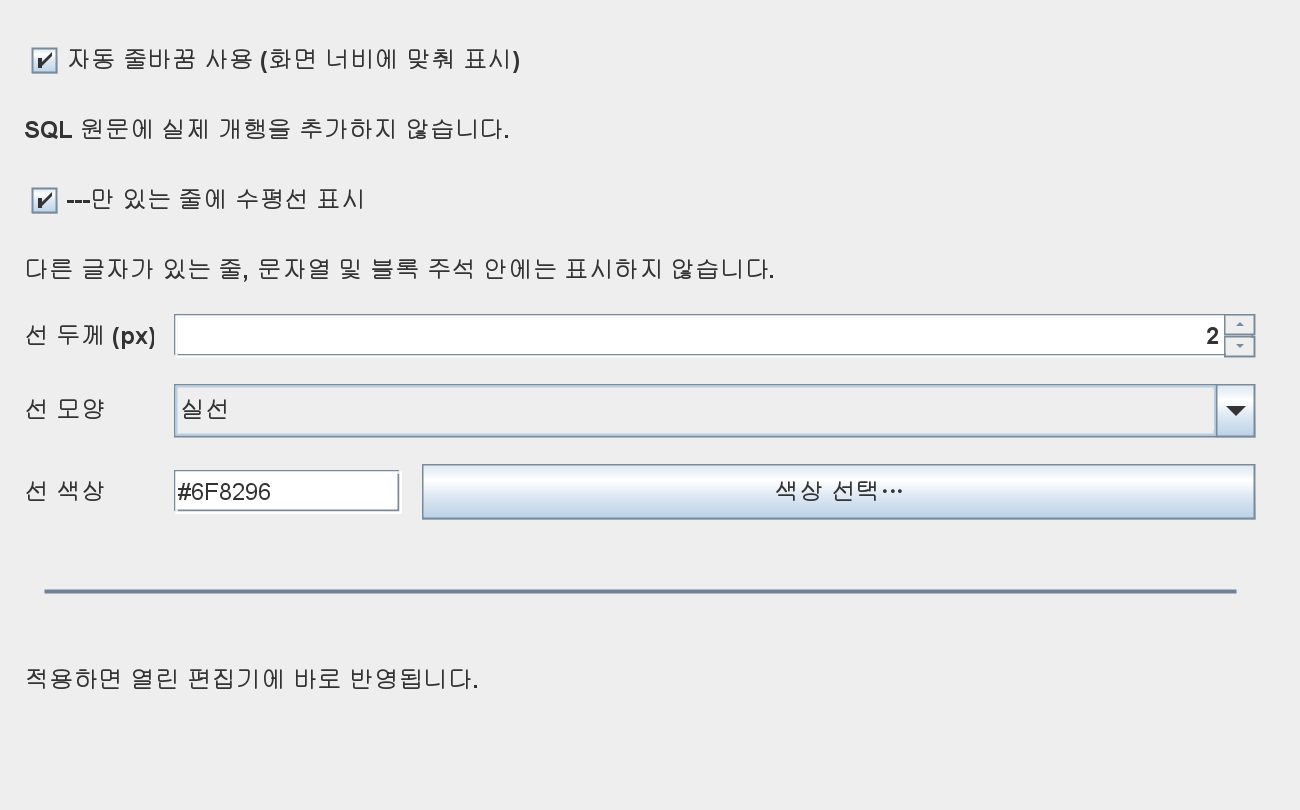
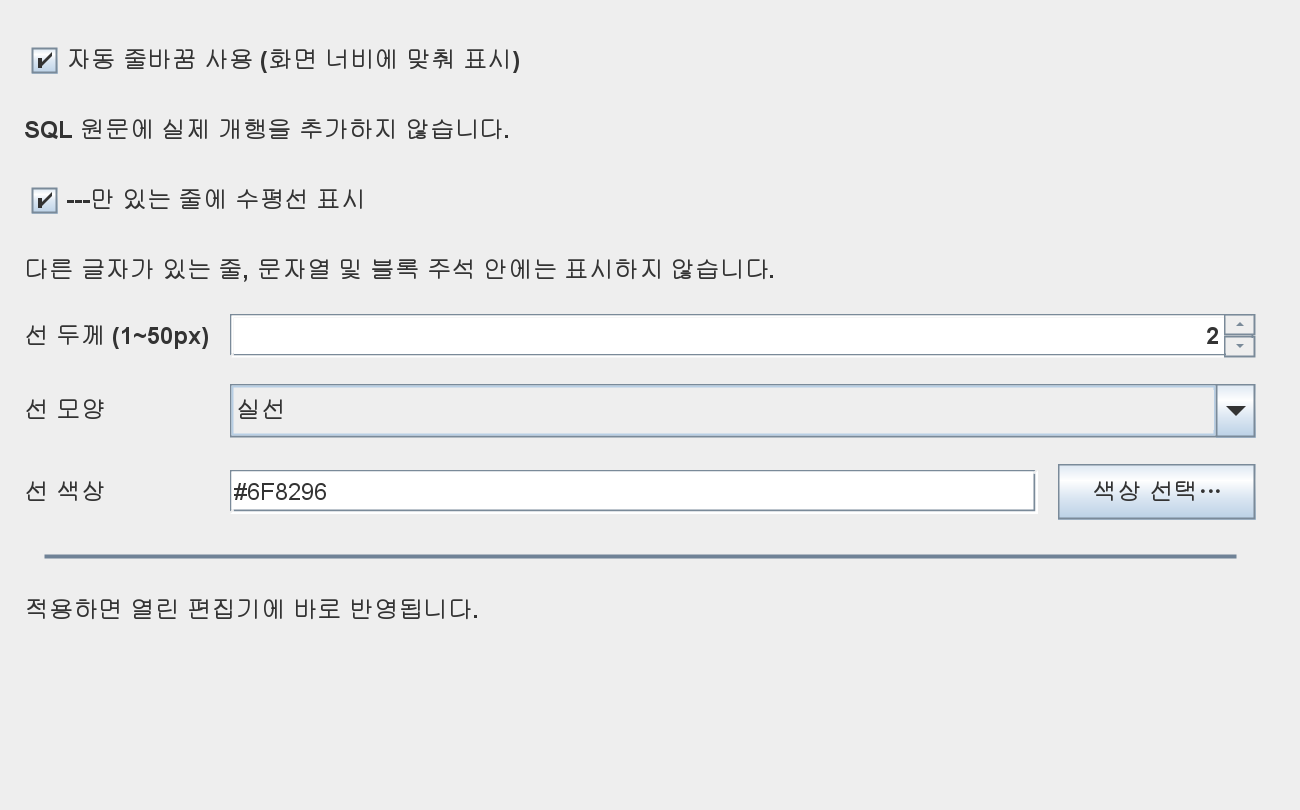
Expand horizontal rule thickness to 50px and add styles

diff --git a/src/java/agent/io/github/sqldevgrid/EditorPreferencesPanel.java b/src/java/agent/io/github/sqldevgrid/EditorPreferencesPanel.java
@@ -10,12 +10,12 @@ import oracle.ide.panels.*;
 /** SQL Developer's native Preferences page; changes commit on OK/Apply, never on navigation. */
 public final class EditorPreferencesPanel extends DefaultTraversablePanel implements ApplyListener {
     private static final String KEY = "io.github.sqldevgrid.editorOptions";
-    private static final String[] STYLES = {"solid", "dashed", "dotted", "dashdot"};
+    private static final String[] STYLES = {"solid", "dashed", "dotted", "dashdot", "longdash", "shortdash", "dashdotdot", "longdashdot", "double"};
     private String pending;
     private final JCheckBox wrap = new JCheckBox("자동 줄바꿈 사용 (화면 너비에 맞춰 표시)");
     private final JCheckBox rules = new JCheckBox("---만 있는 줄에 수평선 표시");
-    private final JSpinner thickness = new JSpinner(new SpinnerNumberModel(1.0, .5, 8.0, .5));
-    private final JComboBox<String> style = new JComboBox<>(new String[] {"실선", "파선", "점선", "일점쇄선"});
+    private final JSpinner thickness = new JSpinner(new SpinnerNumberModel(1.0, 1.0, 50.0, 1.0));
+    private final JComboBox<String> style = new JComboBox<>(new String[] {"실선", "파선", "점선", "일점쇄선", "긴 파선", "짧은 파선", "이점쇄선", "긴 일점쇄선", "이중선"});
     private final JTextField color = new JTextField("#6F8296", 10);
     private final JPanel preview = new JPanel() {
         protected void paintComponent(Graphics graphics) {
@@ -26,11 +26,21 @@ public final class EditorPreferencesPanel extends DefaultTraversablePanel implem
                 float width = ((Number)thickness.getValue()).floatValue(), scale = Math.max(1,width);
                 float[] dash = switch(style.getSelectedIndex()) {
                     case 1 -> new float[] {8*scale,5*scale}; case 2 -> new float[] {scale,4*scale};
-                    case 3 -> new float[] {8*scale,4*scale,scale,4*scale}; default -> null;
+                    case 3 -> new float[] {8*scale,4*scale,scale,4*scale};
+                    case 4 -> new float[] {14*scale,5*scale};
+                    case 5 -> new float[] {3*scale,3*scale};
+                    case 6 -> new float[] {8*scale,4*scale,scale,4*scale,scale,4*scale};
+                    case 7 -> new float[] {14*scale,4*scale,scale,4*scale};
+                    default -> null;
                 };
                 try { copy.setColor(Color.decode(color.getText().trim())); } catch(NumberFormatException ignored) { copy.setColor(new Color(0x6F8296)); }
-                copy.setStroke(new BasicStroke(width, style.getSelectedIndex()==2 ? BasicStroke.CAP_ROUND : BasicStroke.CAP_BUTT, BasicStroke.JOIN_ROUND,10,dash,0));
-                copy.draw(new Line2D.Float(10,getHeight()/2f,getWidth()-10,getHeight()/2f));
+                boolean doubled = style.getSelectedIndex()==8;
+                copy.setStroke(new BasicStroke(doubled ? width/3 : width, style.getSelectedIndex()==2 ? BasicStroke.CAP_ROUND : BasicStroke.CAP_BUTT, BasicStroke.JOIN_ROUND,10,dash,0));
+                float y=getHeight()/2f;
+                if(doubled) {
+                    copy.draw(new Line2D.Float(10,y-width/3,getWidth()-10,y-width/3));
+                    copy.draw(new Line2D.Float(10,y+width/3,getWidth()-10,y+width/3));
+                } else copy.draw(new Line2D.Float(10,y,getWidth()-10,y));
             } finally {copy.dispose();}
         }
     };
@@ -44,11 +54,11 @@ public final class EditorPreferencesPanel extends DefaultTraversablePanel implem
         c.gridy++; form.add(new JLabel("SQL 원문에 실제 개행을 추가하지 않습니다."),c);
         c.gridy++; form.add(rules,c);
         c.gridy++; form.add(new JLabel("다른 글자가 있는 줄, 문자열 및 블록 주석 안에는 표시하지 않습니다."),c);
-        c.gridy++; c.gridwidth=1; c.weightx=0; form.add(new JLabel("선 두께 (px)"),c); c.gridx=1; c.gridwidth=2; form.add(thickness,c);
+        c.gridy++; c.gridwidth=1; c.weightx=0; form.add(new JLabel("선 두께 (1~50px)"),c); c.gridx=1; c.gridwidth=2; form.add(thickness,c);
         c.gridy++; c.gridx=0; c.gridwidth=1; form.add(new JLabel("선 모양"),c); c.gridx=1; c.gridwidth=2; form.add(style,c);
-        c.gridy++; c.gridx=0; c.gridwidth=1; form.add(new JLabel("선 색상"),c); c.gridx=1; form.add(color,c);
-        JButton choose = new JButton("색상 선택…"); c.gridx=2; form.add(choose,c);
-        c.gridy++; c.gridx=0; c.gridwidth=3; preview.setPreferredSize(new Dimension(360,45)); form.add(preview,c);
+        c.gridy++; c.gridx=0; c.gridwidth=1; form.add(new JLabel("선 색상"),c); c.gridx=1; c.weightx=1; form.add(color,c);
+        JButton choose = new JButton("색상 선택…"); c.gridx=2; c.weightx=0; form.add(choose,c);
+        c.gridy++; c.gridx=0; c.gridwidth=3; c.weightx=1; preview.setName("RulePreview"); preview.setPreferredSize(new Dimension(360,80)); form.add(preview,c);
         c.gridy++; form.add(new JLabel("적용하면 열린 편집기에 바로 반영됩니다."),c);
         c.gridy++; c.weighty=1; c.fill=GridBagConstraints.BOTH; form.add(new JPanel(),c);
         add(form,BorderLayout.CENTER);
@@ -70,17 +80,17 @@ public final class EditorPreferencesPanel extends DefaultTraversablePanel implem
         wrap.setSelected(Boolean.parseBoolean(GridSettings.value(json,"softWrap","false")));
         rules.setSelected(Boolean.parseBoolean(GridSettings.value(json,"horizontalRules","false")));
         double value;try{value=Double.parseDouble(GridSettings.value(json,"ruleThickness","1"));}catch(NumberFormatException error){value=1;}
-        thickness.setValue(Math.max(.5,Math.min(8,value)));
+        thickness.setValue(Double.isFinite(value) ? Math.max(1,Math.min(50,value)) : 1.0);
         color.setText(GridSettings.value(json,"ruleColor","\"#6F8296\"").replace("\"",""));
         String chosen=GridSettings.value(json,"ruleStyle","\"solid\"").replace("\"","");
         int index=java.util.Arrays.asList(STYLES).indexOf(chosen); style.setSelectedIndex(Math.max(0,index));
     }
     private String collect() throws TraversalException {
-        try{thickness.commitEdit();}catch(java.text.ParseException error){throw new TraversalException("선 두께는 0.5~8px로 입력하세요.");}
+        try{thickness.commitEdit();}catch(java.text.ParseException error){throw new TraversalException("선 두께는 1~50px로 입력하세요.");}
         String hex=color.getText().trim().toUpperCase(java.util.Locale.ROOT);
         if(!hex.matches("#[0-9A-F]{6}")) throw new TraversalException("선 색상은 #RRGGBB로 입력하세요.");
         double value=((Number)thickness.getValue()).doubleValue();
-        if(!Double.isFinite(value)||value<.5||value>8) throw new TraversalException("선 두께는 0.5~8px로 입력하세요.");
+        if(!Double.isFinite(value)||value<1||value>50) throw new TraversalException("선 두께는 1~50px로 입력하세요.");
         return "{\"softWrap\":"+wrap.isSelected()+",\"horizontalRules\":"+rules.isSelected()+",\"ruleThickness\":"+value
             +",\"ruleColor\":\""+hex+"\",\"ruleStyle\":\""+STYLES[Math.max(0,style.getSelectedIndex())]+"\"}";
     }

diff --git a/src/wpf/Engine.cs b/src/wpf/Engine.cs
@@ -31,7 +31,7 @@ namespace SqlDeveloperFont50 {
         public const string SupportedVersion = "26.2.0.186.2220";
[1 lines of base64/hex data omitted]
         public const string BundleId = "io.github.sqldevgrid.result-grid-font";
-        public const string BundleLine = "io.github.sqldevgrid.result-grid-font,0.11.0,../sqldeveloper/extensions/result-grid-font-extension.jar,4,false";
+        public const string BundleLine = "io.github.sqldevgrid.result-grid-font,0.12.0,../sqldeveloper/extensions/result-grid-font-extension.jar,4,false";
         public readonly string AppData;
         public readonly string ToolFolder;
         public Action<string> Log = delegate { };
@@ -181,7 +181,7 @@ namespace SqlDeveloperFont50 {
                 options.SoftWrap = Text(display, "softWrap", "false").Equals("true", StringComparison.OrdinalIgnoreCase);
                 options.HorizontalRules = Text(display, "horizontalRules", "false").Equals("true", StringComparison.OrdinalIgnoreCase);
                 double thickness;
-                if (double.TryParse(display.ContainsKey("ruleThickness") ? Convert.ToString(display["ruleThickness"], CultureInfo.InvariantCulture) : "1", NumberStyles.Float, CultureInfo.InvariantCulture, out thickness)) options.RuleThickness = Math.Max(.5, Math.Min(8, thickness));
+                if (double.TryParse(display.ContainsKey("ruleThickness") ? Convert.ToString(display["ruleThickness"], CultureInfo.InvariantCulture) : "1", NumberStyles.Float, CultureInfo.InvariantCulture, out thickness)) options.RuleThickness = double.IsNaN(thickness) || double.IsInfinity(thickness) ? 1 : Math.Max(1, Math.Min(50, thickness));
                 options.RuleColor = Text(display, "ruleColor", "#6F8296"); options.RuleStyle = Text(display, "ruleStyle", "solid");
             } catch { }
             return options;
@@ -277,9 +277,9 @@ namespace SqlDeveloperFont50 {
         void SaveOptions(Installation install, FontOptions options) {
             if (options.EditorSize < 7 || options.EditorSize > 50 || options.GridSize < 6 || options.GridSize > 50 || options.Padding < -20 || options.Padding > 30)
                 throw new InvalidOperationException("글꼴 크기와 여백 범위를 확인하세요.");
-            if (!Regex.IsMatch(options.RuleColor ?? "", "^#[0-9a-fA-F]{6}$") || options.RuleThickness < .5 || options.RuleThickness > 8 ||
-                !new[] {"solid", "dashed", "dotted", "dashdot"}.Contains(options.RuleStyle))
-                throw new InvalidOperationException("수평선 색상(#RRGGBB), 두께(0.5~8px), 모양을 확인하세요.");
+            if (!Regex.IsMatch(options.RuleColor ?? "", "^#[0-9a-fA-F]{6}$") || double.IsNaN(options.RuleThickness) || double.IsInfinity(options.RuleThickness) || options.RuleThickness < 1 || options.RuleThickness > 50 ||
+                !new[] {"solid", "dashed", "dotted", "dashdot", "longdash", "shortdash", "dashdotdot", "longdashdot", "double"}.Contains(options.RuleStyle))
+                throw new InvalidOperationException("수평선 색상(#RRGGBB), 두께(1~50px), 모양을 확인하세요.");
             string preferences = PreferencesPath(install);
             if (File.Exists(preferences)) {
                 string text = File.ReadAllText(preferences, Utf8);
@@ -322,7 +322,7 @@ namespace SqlDeveloperFont50 {
             } else if (Hash(editor) != OriginalHash) throw new InvalidOperationException("검증한 원본과 다른 편집기 JAR입니다. 이 버전에는 적용할 수 없습니다.");
             string text = File.ReadAllText(bundles, Utf8);
             var registrations = text.Split(new[] { "\r\n", "\n" }, StringSplitOptions.None).Where(s => s.StartsWith(BundleId + ",", StringComparison.Ordinal)).ToList();
-            if (registrations.Count > 1 || registrations.Any(s => !Regex.IsMatch(s, "^" + Regex.Escape(BundleId) + @",0\.(?:[1-9]|10|11)\.0,\.\./sqldeveloper/extensions/result-grid-font-extension\.jar,4,false$")))
+            if (registrations.Count > 1 || registrations.Any(s => !Regex.IsMatch(s, "^" + Regex.Escape(BundleId) + @",0\.(?:[1-9]|10|11|12)\.0,\.\./sqldeveloper/extensions/result-grid-font-extension\.jar,4,false$")))
                 throw new InvalidOperationException("기존 결과셋 확장 등록이 예상과 다릅니다.");
             string lineEnding = text.Contains("\r\n") ? "\r\n" : "\n";
             string changed = registrations.Count == 1 ? text.Replace(registrations[0], BundleLine) : text.TrimEnd('\r', '\n') + lineEnding + BundleLine + lineEnding;
@@ -366,7 +366,7 @@ namespace SqlDeveloperFont50 {
                     string agentPath = agent.Replace('\\', '/');
                     AtomicText(configPath, config.TrimEnd('\r', '\n') + "\r\n\r\n# FONT50 AGENT BEGIN\r\nAddVMOption -javaagent:" + agentPath + "\r\n# FONT50 AGENT END\r\n");
                     SaveOptions(install, options);
-                    state["packageVersion"] = "3.4.1"; state["root"] = install.Root; state["installedAt"] = DateTime.Now.ToString("o");
+                    state["packageVersion"] = "3.4.2"; state["root"] = install.Root; state["installedAt"] = DateTime.Now.ToString("o");
                     state["editorPatchedHash"] = Hash(editor); state["extensionPatchedHash"] = Hash(extension); state["bundlePatchedLine"] = BundleLine;
                     state["agentPatchedHash"] = Hash(agent);
                     WriteJson(statePath, state);

diff --git a/tests/java/NativePreferencesTest.java b/tests/java/NativePreferencesTest.java
@@ -41,7 +41,7 @@ public final class NativePreferencesTest {
                 try{reopened.onExit(new TraversableContext(new Namespace(),0));}catch(TraversalException error){rejected=true;}
                 check(rejected&&Files.readString(path).equals(saved),"Invalid color changed saved settings");
                 panel.setSize(650,470);layout(panel);
-                check(find(panel,"SoftWrap").getWidth()>200 && find(panel,"RuleColor").getHeight()>10,"Native preference controls were not laid out");
+                check(find(panel,"SoftWrap").getWidth()>200 && find(panel,"RuleColor").getWidth()>100 && find(panel,"RuleColor").getHeight()>10,"Native preference controls were not laid out");
                 java.awt.image.BufferedImage image=new java.awt.image.BufferedImage(650,470,java.awt.image.BufferedImage.TYPE_INT_RGB);
                 Graphics2D g=image.createGraphics();panel.printAll(g);g.dispose();javax.imageio.ImageIO.write(image,"png",Path.of(args[0],"native-preferences.png").toFile());
                 // Oracle loads a native page in its bundle loader while the startup agent owns the shared settings class.
@@ -58,6 +58,35 @@ public final class NativePreferencesTest {
                     isolated.onEntry(new TraversableContext(new Namespace(),0));
                     check(((Number)((JSpinner)find(isolated,"RuleThickness")).getValue()).doubleValue()==2.5,"Separate bundle could not access shared settings");
                 }
+                String[] styles={"solid","dashed","dotted","dashdot","longdash","shortdash","dashdotdot","longdashdot","double"};
+                JSpinner width=(JSpinner)find(panel,"RuleThickness");
+                JComboBox<?> choices=(JComboBox<?>)find(panel,"RuleStyle");
+                check(choices.getItemCount()==styles.length,"Missing rule styles");
+                SpinnerNumberModel model=(SpinnerNumberModel)width.getModel();
+                check(model.getMinimum().equals(1.0)&&model.getMaximum().equals(50.0),"Thickness range is not 1~50");
+                for(int i=0;i<styles.length;i++) for(double value:new double[]{1,25,50}) {
+                    TraversableContext options=new TraversableContext(new Namespace(),0);
+                    width.setValue(value);choices.setSelectedIndex(i);
+                    panel.onExit(options);panel.apply(new ApplyEvent(options));
+                    String json=Files.readString(path);
+                    check(json.contains("\"ruleThickness\":"+value)&&json.contains("\"ruleStyle\":\""+styles[i]+"\""),"Rule option not saved: "+styles[i]+" / "+value);
+                    EditorPreferencesPanel loaded=new EditorPreferencesPanel();loaded.onEntry(new TraversableContext(new Namespace(),0));
+                    check(((Number)((JSpinner)find(loaded,"RuleThickness")).getValue()).doubleValue()==value&&((JComboBox<?>)find(loaded,"RuleStyle")).getSelectedIndex()==i,"Rule option lost on reopen");
+                }
+                String valid=Files.readString(path);
+                for(String invalid:new String[]{"0","0.5","51","NaN","Infinity"}) {
+                    ((JSpinner.DefaultEditor)width.getEditor()).getTextField().setText(invalid);
+                    boolean invalidWidth=false;
+                    try{panel.onExit(new TraversableContext(new Namespace(),0));}catch(TraversalException expected){invalidWidth=true;}
+                    check(invalidWidth&&Files.readString(path).equals(valid),"Invalid thickness accepted: "+invalid);
+                }
+                width.setValue(50.0);((JSpinner.DefaultEditor)width.getEditor()).getTextField().setValue(50.0);
+                choices.setSelectedIndex(0);panel.setSize(650,470);layout(panel);
+                Component preview=find(panel,"RulePreview");check(preview.getHeight()>=70,"50px preview has insufficient height");
+                java.awt.image.BufferedImage thick=new java.awt.image.BufferedImage(650,470,java.awt.image.BufferedImage.TYPE_INT_RGB);
+                Graphics2D thickGraphics=thick.createGraphics();panel.printAll(thickGraphics);thickGraphics.dispose();
+                javax.imageio.ImageIO.write(thick,"png",Path.of(args[0],"native-preferences-50px.png").toFile());
+                System.out.println("PASS 9 rule styles: 1/25/50px Apply/reopen, invalid range rejection, 50px preview");
                 oracle.ide.panels.Navigable existing=new oracle.ide.panels.Navigable("기존 항목",DefaultTraversablePanel.class);
                 java.util.Collection<?> originalPages=java.util.List.of(existing);
                 java.util.Collection<?> extended=io.github.sqldevgrid.NativePreferencesBridge.extend(originalPages,"/preferences/ceditor",oracle.ide.config.SettingsUIRegistry.class);

diff --git a/tests/java/EditorFeatureTests.java b/tests/java/EditorFeatureTests.java
@@ -95,16 +95,38 @@ public final class EditorFeatureTests {
                     "Rule appeared in a line containing other text");
                 editor.setText("---\nselect 1 from dual;\n---\n"); size(editor, scroll, 620);
                 String ruleSource = editor.getText();
-                for (String style : new String[] {"solid", "dashed", "dotted", "dashdot"}) {
+                java.util.Set<Integer> patterns=new java.util.HashSet<>();
+                for (String style : new String[] {"solid", "dashed", "dotted", "dashdot", "longdash", "shortdash", "dashdotdot", "longdashdot", "double"}) {
                     EditorBridge.configureEditor(editor, false, true, 4, 0xEE2244, style);
                     BufferedImage image = paint(editor, 595, 220);
                     int colored = 0;
                     for (int y = 0; y < image.getHeight(); y++) for (int x = 150; x < image.getWidth() - 20; x++)
                         if ((image.getRGB(x, y) & 0xFFFFFF) == 0xEE2244) colored++;
                     check(colored > 100, "Configured " + style + " rule color/stroke was not painted");
+                    check(patterns.add(Arrays.hashCode(image.getRGB(0,0,image.getWidth(),image.getHeight(),null,0,image.getWidth()))),"Rule styles look identical: "+style);
                     ImageIO.write(image, "png", Path.of(args[0], "editor-rule-" + style + ".png").toFile());
                 }
                 check(editor.getText().equals(ruleSource), "Rules changed SQL source");
+                editor.setBaseFont("Monospaced",50);editor.setText("\n\n---\n\n\n");size(editor,scroll,620);
+                String thickSource=editor.getText();
+                editor.getCaret().setVisible(false);
+                for(boolean wrapMode:new boolean[]{false,true}) for(float thickness:new float[]{1,8,25,50}) {
+                    // Use the global settings path as the actual preferences service does.
+                    editor.putClientProperty("sqldev.font50.editorFeatures",null);
+                    EditorBridge.configure(wrapMode,true,thickness,0xEE2244,"solid");EditorBridge.invalidate(editor);
+                    BufferedImage image=paint(editor,595,400);
+                    int top=400,bottom=-1;
+                    for(int y=0;y<400;y++) if((image.getRGB(200,y)&0xFFFFFF)==0xEE2244){top=Math.min(top,y);bottom=y;}
+                    check(Math.abs((bottom-top+1)-thickness)<=1,"Actual stroke differs from "+thickness+"px (wrap="+wrapMode+"): "+(bottom-top+1));
+                    if(thickness==50) {
+                        BufferedImage clipped=new BufferedImage(595,400,BufferedImage.TYPE_INT_RGB);
+                        Graphics2D clipGraphics=clipped.createGraphics();clipGraphics.setClip(180,bottom-4,40,3);editor.paint(clipGraphics);clipGraphics.dispose();
+                        check(clipped.getRGB(200,bottom-3)==image.getRGB(200,bottom-3),"Partial repaint missed outer edge of 50px rule");
+                        ImageIO.write(image,"png",Path.of(args[0],"editor-rule-50px-"+wrapMode+".png").toFile());
+                    }
+                }
+                check(editor.getText().equals(thickSource),"Thick rules changed SQL source");
+                System.out.println("PASS 9 distinct styles; global 1/8/25/50px actual stroke and clipped repaint with/without wrap");
                 editor.setBaseFont("Monospaced",50); editor.setText("---"); editor.select(0,0); editor.getCaret().setVisible(false); size(editor,scroll,620);
                 for(boolean wrapMode : new boolean[] {false,true}) {
                     EditorBridge.configureEditor(editor,wrapMode,true,1,0xEE2244,"solid");
@@ -134,7 +156,7 @@ public final class EditorFeatureTests {
                 for(int y=0;y<100;y++)for(int x=220;x<590;x++)if((removed.getRGB(x,y)&0xFFFFFF)==0xEE2244)red++;
                 check(red==0 && editor.getText().equals("--"),"Deleting a hyphen did not remove the rule");
                 System.out.println("PASS marker glyphs hidden with/without wrap; toggling rules restores text; deleting a hyphen removes rule");
-                System.out.println("PASS horizontal rules: solid/dashed/dotted/dash-dot, color, thickness, quoted-marker exclusion, unchanged SQL");
+                System.out.println("PASS horizontal rules: 9 styles, color, thickness, quoted-marker exclusion, unchanged SQL");
                 editor.dispose();
             } catch (Exception error) { throw new RuntimeException(error); }
         });

diff --git a/src/java/bootstrap/io/github/sqldevgrid/bridge/EditorBridge.java b/src/java/bootstrap/io/github/sqldevgrid/bridge/EditorBridge.java
@@ -57,12 +57,15 @@ public final class EditorBridge {
         graphics.drawChars(text, offset, length, x, y);
     }
     public static void configure(boolean wrap, boolean rules, float thickness, int rgb, String style) {
-        global = new Options(wrap, rules, Math.max(.5f, Math.min(8f, thickness)), rgb & 0xFFFFFF, style);
+        global = new Options(wrap, rules, ruleThickness(thickness), rgb & 0xFFFFFF, style);
         synchronized (CACHE) { CACHE.clear(); }
     }
     public static void configureEditor(JTextComponent editor, boolean wrap, boolean rules, float thickness, int rgb, String style) {
-        editor.putClientProperty(OVERRIDE, new Options(wrap, rules, thickness, rgb, style));
+        editor.putClientProperty(OVERRIDE, new Options(wrap, rules, ruleThickness(thickness), rgb, style));
         invalidate(editor);
+    }
+    private static float ruleThickness(float thickness) {
+        return Float.isFinite(thickness) ? Math.max(1f, Math.min(50f, thickness)) : 1f;
     }
     public static void invalidate(JTextComponent editor) {
         synchronized (CACHE) { CACHE.entrySet().removeIf(entry -> entry.getKey().getContainer() == editor); }
@@ -248,16 +251,27 @@ public final class EditorBridge {
                 case "dashed" -> new float[] {8 * scale, 5 * scale};
                 case "dotted" -> new float[] {scale, 4 * scale};
                 case "dashdot" -> new float[] {8 * scale, 4 * scale, scale, 4 * scale};
+                case "longdash" -> new float[] {14 * scale, 5 * scale};
+                case "shortdash" -> new float[] {3 * scale, 3 * scale};
+                case "dashdotdot" -> new float[] {8 * scale, 4 * scale, scale, 4 * scale, scale, 4 * scale};
+                case "longdashdot" -> new float[] {14 * scale, 4 * scale, scale, 4 * scale};
                 default -> null;
             };
-            copy.setStroke(new BasicStroke(options.thickness, "dotted".equals(options.style) ? BasicStroke.CAP_ROUND : BasicStroke.CAP_BUTT, BasicStroke.JOIN_ROUND, 10, dash, 0));
+            boolean doubled = "double".equals(options.style);
+            copy.setStroke(new BasicStroke(doubled ? options.thickness / 3 : options.thickness, "dotted".equals(options.style) ? BasicStroke.CAP_ROUND : BasicStroke.CAP_BUTT, BasicStroke.JOIN_ROUND, 10, dash, 0));
             copy.setColor(new Color(options.rgb));
             for (int offset : offsets) {
                 if (collapsed(editor, callInt(view.getDocument(), "getLineFromOffset", offset))) continue;
                 Rectangle row = options.wrap ? model(view, offset, allocation, Position.Bias.Forward).getBounds()
                     : original(() -> view.modelToView(offset, allocation, Position.Bias.Forward).getBounds());
                 int y = row.y + row.height / 2;
-                if (copy.getClipBounds() == null || copy.getClipBounds().intersects(left, y - 8, Math.max(1, right - left), 16)) copy.draw(new Line2D.Float(left, y, right, y));
+                int radius = (int)Math.ceil(options.thickness / 2) + 1;
+                if (copy.getClipBounds() == null || copy.getClipBounds().intersects(left, y - radius, Math.max(1, right - left), radius * 2)) {
+                    if (doubled) {
+                        copy.draw(new Line2D.Float(left, y - options.thickness / 3, right, y - options.thickness / 3));
+                        copy.draw(new Line2D.Float(left, y + options.thickness / 3, right, y + options.thickness / 3));
+                    } else copy.draw(new Line2D.Float(left, y, right, y));
+                }
             }
         } finally { copy.dispose(); }
     }

diff --git a/tests/java/ActualPreferencesTreeProbe.java b/tests/java/ActualPreferencesTreeProbe.java
@@ -32,6 +32,17 @@ public final class ActualPreferencesTreeProbe {
                 if(!panel.getClass().getName().equals("io.github.sqldevgrid.EditorPreferencesPanel"))throw new IllegalStateException("Incorrect preference panel");
                 Class<?> tc=loader.loadClass("oracle.ide.panels.TraversableContext");Object values=tc.getConstructor(namespace,int.class).newInstance(namespace.getConstructor().newInstance(),0);
                 panel.getClass().getMethod("onEntry",tc).invoke(panel,values);
+                JSpinner thickness=(JSpinner)find((Container)panel,"RuleThickness");
+                JComboBox<?> styles=(JComboBox<?>)find((Container)panel,"RuleStyle");
+                SpinnerNumberModel range=(SpinnerNumberModel)thickness.getModel();
+                if(!range.getMinimum().equals(1.0)||!range.getMaximum().equals(50.0)||styles.getItemCount()!=9)
+                    throw new IllegalStateException("Installed rule options are not 1~50px / 9 styles");
+                report.append("PASS INSTALLED RULE OPTIONS: 1~50px, 9 styles, loaded thickness=").append(thickness.getValue()).append(", style=").append(styles.getSelectedItem()).append('\n');
+                JComponent component=(JComponent)panel;
+                component.setSize(650,470);layout(component);
+                java.awt.image.BufferedImage image=new java.awt.image.BufferedImage(650,470,java.awt.image.BufferedImage.TYPE_INT_RGB);
+                Graphics2D graphics=image.createGraphics();component.printAll(graphics);graphics.dispose();
+                javax.imageio.ImageIO.write(image,"png",Path.of(output).resolveSibling("installed-preferences.png").toFile());
                 report.append("PASS ACTUAL ORACLE LEFT TREE: IdeSettings root, actual child enumeration, native lazy tree builder, one preference entry, real preference panel and option loading.\n");
                 report.append("PARENT=").append(System.getProperty("sqldev.font50.nativePreferencesTreeParent")).append(" TREE_HOOK=").append(System.getProperty("sqldev.font50.nativePreferencesTreeHook")).append('\n');
                 for(Window w:Window.getWindows())if(w.isShowing())inspect(w,report);
@@ -39,6 +50,8 @@ public final class ActualPreferencesTreeProbe {
         }catch(Throwable error){java.io.StringWriter text=new java.io.StringWriter();error.printStackTrace(new java.io.PrintWriter(text));report.append("FAILED\n").append(text);}
         try{Files.writeString(Path.of(output),report,StandardCharsets.UTF_8);}catch(Exception ignored){}
     },"font50-actual-left-tree-verification").start();}
+    static Component find(Container parent,String name){for(Component child:parent.getComponents()){if(name.equals(child.getName()))return child;if(child instanceof Container next){Component found=find(next,name);if(found!=null)return found;}}return null;}
+    static void layout(Container parent){parent.doLayout();for(Component child:parent.getComponents())if(child instanceof Container next)layout(next);}
     static void inspect(Component c,StringBuilder report){if(c instanceof JTree t)inspectNode(t.getModel(),t.getModel().getRoot(),report);if(c instanceof Container p)for(Component child:p.getComponents())inspect(child,report);}
     static void inspectNode(TreeModel model,Object n,StringBuilder report){if(n.toString().equals("코드 편집기")){report.append("EXISTING DIALOG CODE EDITOR CHILDREN\n");for(int i=0;i<model.getChildCount(n);i++)report.append("VISIBLE MODEL ").append(model.getChild(n,i)).append('\n');}for(int i=0;i<model.getChildCount(n);i++)inspectNode(model,model.getChild(n,i),report);}
 }

diff --git a/tests/java/DocumentationViews.java b/tests/java/DocumentationViews.java
@@ -33,15 +33,16 @@ public final class DocumentationViews {
                 editor.setText("select id, name, created_at, status, description, updated_at from sample_table where status = 'ACTIVE' order by created_at desc;\n\n---\n\nselect '안녕하세요. --- 입니다' as message\nfrom dual;\n");
                 EditorBridge.configureEditor(editor,true,true,2,0x6F8296,"solid");
                 editor.getCaret().setVisible(false);save(editor,875,420,directory.resolve("editor-wrap.png"));
-                JPanel rules=new JPanel(new GridLayout(4,1,0,6));rules.setBackground(Color.WHITE);
-                String[] names={"실선 / Solid","파선 / Dashed","점선 / Dotted","일점쇄선 / Dash-dot"};String[] codes={"solid","dashed","dotted","dashdot"};
+                JPanel rules=new JPanel(new GridLayout(9,1,0,6));rules.setBackground(Color.WHITE);
+                String[] names={"실선 / Solid","파선 / Dashed","점선 / Dotted","일점쇄선 / Dash-dot","긴 파선 / Long dash","짧은 파선 / Short dash","이점쇄선 / Dash-dot-dot","긴 일점쇄선 / Long dash-dot","이중선 / Double"};
+                String[] codes={"solid","dashed","dotted","dashdot","longdash","shortdash","dashdotdot","longdashdot","double"};
                 for(int i=0;i<codes.length;i++){
                     JPanel line=new JPanel(new BorderLayout(10,0));line.setBackground(Color.WHITE);line.setBorder(BorderFactory.createEmptyBorder(5,12,5,12));
-                    JLabel label=new JLabel(names[i]);label.setFont(new Font("Malgun Gothic",Font.PLAIN,14));label.setPreferredSize(new Dimension(145,40));line.add(label,BorderLayout.WEST);
+                    JLabel label=new JLabel(names[i]);label.setFont(new Font("Malgun Gothic",Font.PLAIN,14));label.setPreferredSize(new Dimension(240,40));line.add(label,BorderLayout.WEST);
                     BasicEditorPane marker=new BasicEditorPane();marker.setBaseFont("Monospaced",24);marker.setText("---");marker.getCaret().setVisible(false);
-                    EditorBridge.configureEditor(marker,false,true,2,0x167764,codes[i]);line.add(marker,BorderLayout.CENTER);rules.add(line);
+                    EditorBridge.configureEditor(marker,false,true,4,0x167764,codes[i]);line.add(marker,BorderLayout.CENTER);rules.add(line);
                 }
-                save(rules,875,250,directory.resolve("rule-styles.png"));editor.dispose();
+                save(rules,875,560,directory.resolve("rule-styles.png"));editor.dispose();
                 System.out.println("PASS documented views: native preference panel, Oracle editor, standalone rules; demo input only");
             }catch(Exception error){throw new RuntimeException(error);}});
             System.exit(0);

diff --git a/tests/csharp/EngineTests.cs b/tests/csharp/EngineTests.cs
@@ -42,9 +42,9 @@ public static class EngineTests {
                 Directory.CreateDirectory(engine.CachePath(install)); File.WriteAllText(Path.Combine(engine.CachePath(install), "all-resources.dat"), "stale-classes", utf8);
                 string originalExtensionHash = legacy ? Engine.Hash(extension) : "";
                 engine.Install(install, new FontOptions { EditorSize = 50, GridSize = 50, Padding = 8, GridFamily = "Monospaced",
-                    SoftWrap = true, HorizontalRules = true, RuleThickness = 2.5, RuleColor = "#12abef", RuleStyle = "dashdot" });
+                    SoftWrap = true, HorizontalRules = true, RuleThickness = 50, RuleColor = "#12abef", RuleStyle = "double" });
                 var display = engine.ReadOptions(install);
-                Check(display.SoftWrap && display.HorizontalRules && display.RuleThickness == 2.5 && display.RuleColor == "#12ABEF" && display.RuleStyle == "dashdot", "editor display options saved and reloaded");
+                Check(display.SoftWrap && display.HorizontalRules && display.RuleThickness == 50 && display.RuleColor == "#12ABEF" && display.RuleStyle == "double", "50px and new double rule saved and reloaded by installer");
                 Check(engine.ReadOptions(install).EditorSize == 50 && engine.ReadOptions(install).GridSize == 50, "editor and result size saved as 50pt");
                 using (var jar = System.IO.Compression.ZipFile.OpenRead(extension))
                     Check(jar.GetEntry("io/github/sqldevgrid/EditorPreferencesPanel.class") != null, "native preference panel packaged for the Oracle preference loader");

diff --git a/src/java/agent/io/github/sqldevgrid/BootstrapAgent.java b/src/java/agent/io/github/sqldevgrid/BootstrapAgent.java
@@ -31,7 +31,7 @@ public final class BootstrapAgent {
         }
         try {
             Path folder = GridSettings.path().getParent(); Files.createDirectories(folder);
-            Files.writeString(folder.resolve("agent-started.json"), "{\"version\":\"0.11.0\",\"pid\":" + ProcessHandle.current().pid() + ",\"timestamp\":" + System.currentTimeMillis() + "}", StandardCharsets.UTF_8);
+            Files.writeString(folder.resolve("agent-started.json"), "{\"version\":\"0.12.0\",\"pid\":" + ProcessHandle.current().pid() + ",\"timestamp\":" + System.currentTimeMillis() + "}", StandardCharsets.UTF_8);
         } catch (Exception ignored) { }
         start();
         String testClasses = System.getProperty("sqldev.font50.selftest.classes");

diff --git a/src/java/agent/io/github/sqldevgrid/RuntimeStatus.java b/src/java/agent/io/github/sqldevgrid/RuntimeStatus.java
@@ -25,7 +25,7 @@ final class RuntimeStatus {
         } catch (Exception ex) { menuMax = 0; }
         try {
             Path folder = GridSettings.path().getParent(); Files.createDirectories(folder);
-            String json = "{\"version\":\"0.11.0\",\"pid\":" + ProcessHandle.current().pid() + ",\"timestamp\":" + now
+            String json = "{\"version\":\"0.12.0\",\"pid\":" + ProcessHandle.current().pid() + ",\"timestamp\":" + now
                 + ",\"editorMenuMax\":" + menuMax + ",\"grids\":" + grids + ",\"fontSize\":" + font
                 + ",\"rowHeight\":" + height + ",\"error\":" + Configure.quote(error) + "}";
             Path temp = folder.resolve("runtime-state.tmp");

diff --git a/src/wpf/AssemblyInfo.cs b/src/wpf/AssemblyInfo.cs
@@ -1,5 +1,5 @@
 using System.Reflection;
 [assembly: AssemblyTitle("SQL Developer Configurator")]
 [assembly: AssemblyProduct("SQL Developer Configurator")]
-[assembly: AssemblyVersion("3.4.1.0")]
-[assembly: AssemblyFileVersion("3.4.1.0")]
+[assembly: AssemblyVersion("3.4.2.0")]
+[assembly: AssemblyFileVersion("3.4.2.0")]
